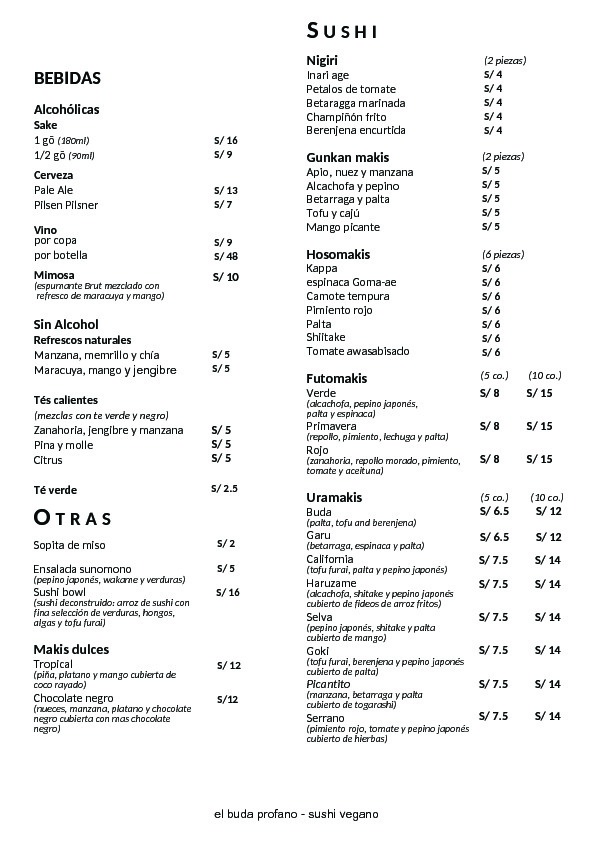
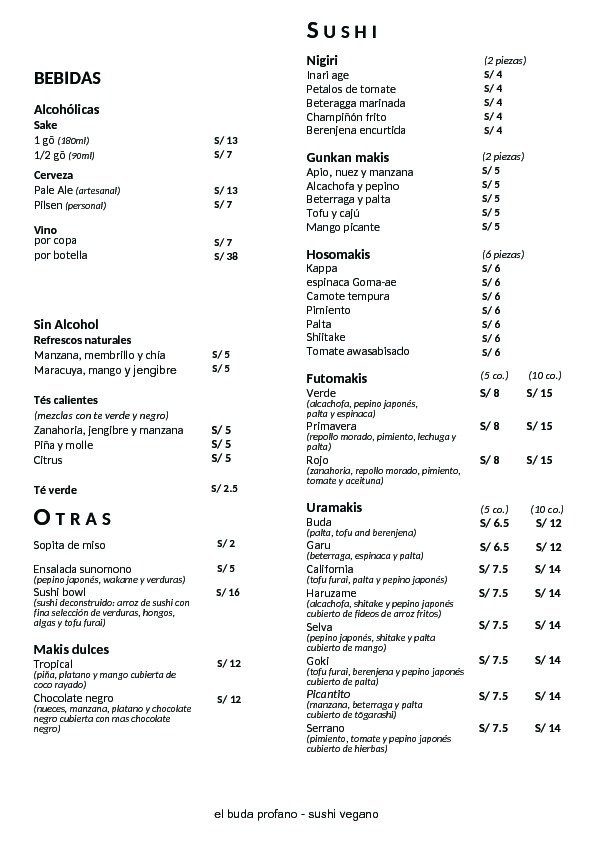
20170118menu

diff --git a/index.html b/index.html
@@ -54,7 +54,7 @@
     <div class="row">
       <div class="six columns" style="margin-top: 25%">
         <h5>combos and platters</h5>
-        <p class="u-pull-right">prices in Peruvian Soles<br>Our complete 100% vegan menu <a target="_blank" href="images/menu.jpg">here</a>.</p>
+        <p class="u-pull-right">prices in Peruvian Soles<br>Our 100% vegan menu <a target="_blank" href="images/menu.jpg">is here</a>.</p>
       </div>
     </div>
 
@@ -67,8 +67,8 @@
       </div>
   <!-- -->
       <div class="one-third column" style="margin-top: 2%">
-        <p class="u-pull-left">Sampler | S/37</p>
-        <p class="u-pull-right">Nigiri, gunkan, hosmaki, futomaki and uramaki</p>
+        <p class="u-pull-left">Tasting menu for 2 | S/40</p>
+        <p class="u-pull-right">Miso, sunomono, nigirizushi, gunkanmaki, hosomaki, futomaki and uramaki</p>
       </div>
   <!-- -->
       <div class="one-third column" style="margin-top: 2%">
@@ -81,18 +81,18 @@
     <div class="row">
   <!-- -->
       <div class="one-third column" style="margin-top: 2%">
-        <p class="u-pull-left">Sweet afternoon | S/25</p>
+        <p class="u-pull-left">Sweet afternoon | S/22</p>
         <p class="u-pull-right">Saké and your choice of our desert makis</p>
       </div>
   <!-- -->
       <div class="one-third column" style="margin-top: 2%">
-        <p class="u-pull-left">Wine by the bottle | S/48</p>
+        <p class="u-pull-left">Wine by the bottle | S/38</p>
         <p class="u-pull-right">White, red or sparkling</p>
       </div>
   <!-- -->
       <div class="one-third column" style="margin-top: 2%">
         <p class="u-pull-left">Fresh combo | S/14</p>
-        <p class="u-pull-right">Fresh juice, Sunomono salad and Futomaki verde</p>
+        <p class="u-pull-right">Fresh juice, Sunomono salad and Futomaki</p>
       </div>
     </div>
 
